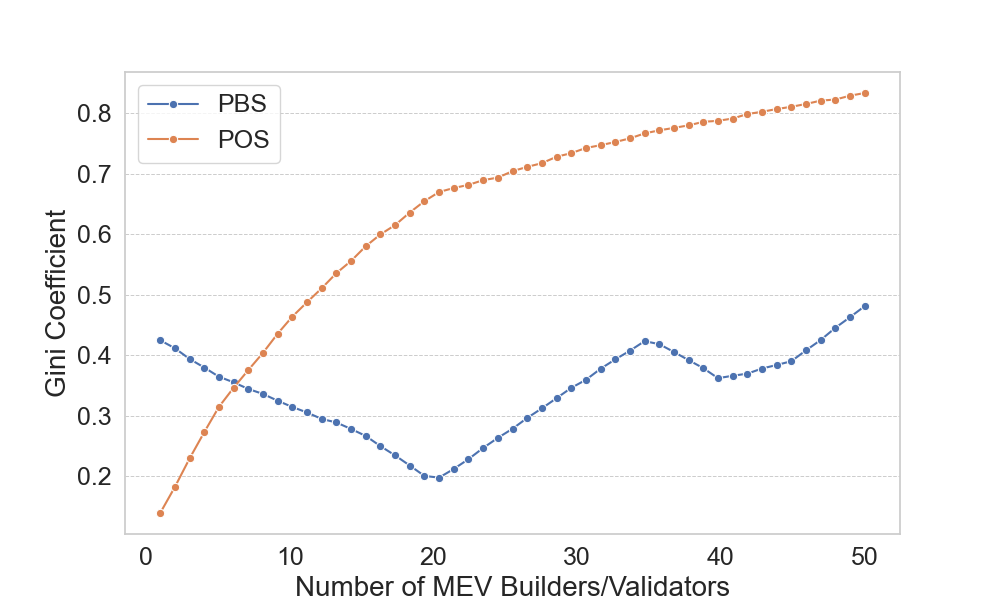
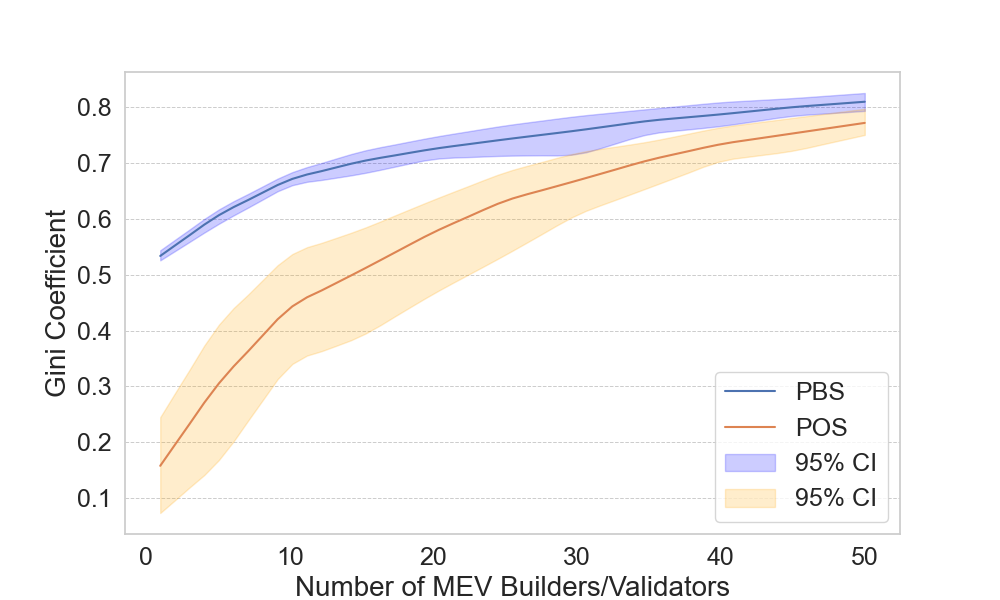
update

diff --git a/plots/new/100_run_plot.py b/plots/new/100_run_plot.py
@@ -109,8 +109,7 @@ def plot_gini_with_confidence(data_dir, mev_counts):
     ax.xaxis.grid(False)
     ax.yaxis.grid(True, which='both', linestyle='--', linewidth=0.7)
 
-    plt.title('Gini Coefficient with 95% Confidence Intervals', fontsize=22)
-    plt.savefig('figures/new/gini_coefficient_with_confidence_bands.png')
+    plt.savefig('figures/new/smooth_gini_coefficient.png')
     plt.close()
 
 def plot_total_profits(data_dir, mev_counts):
